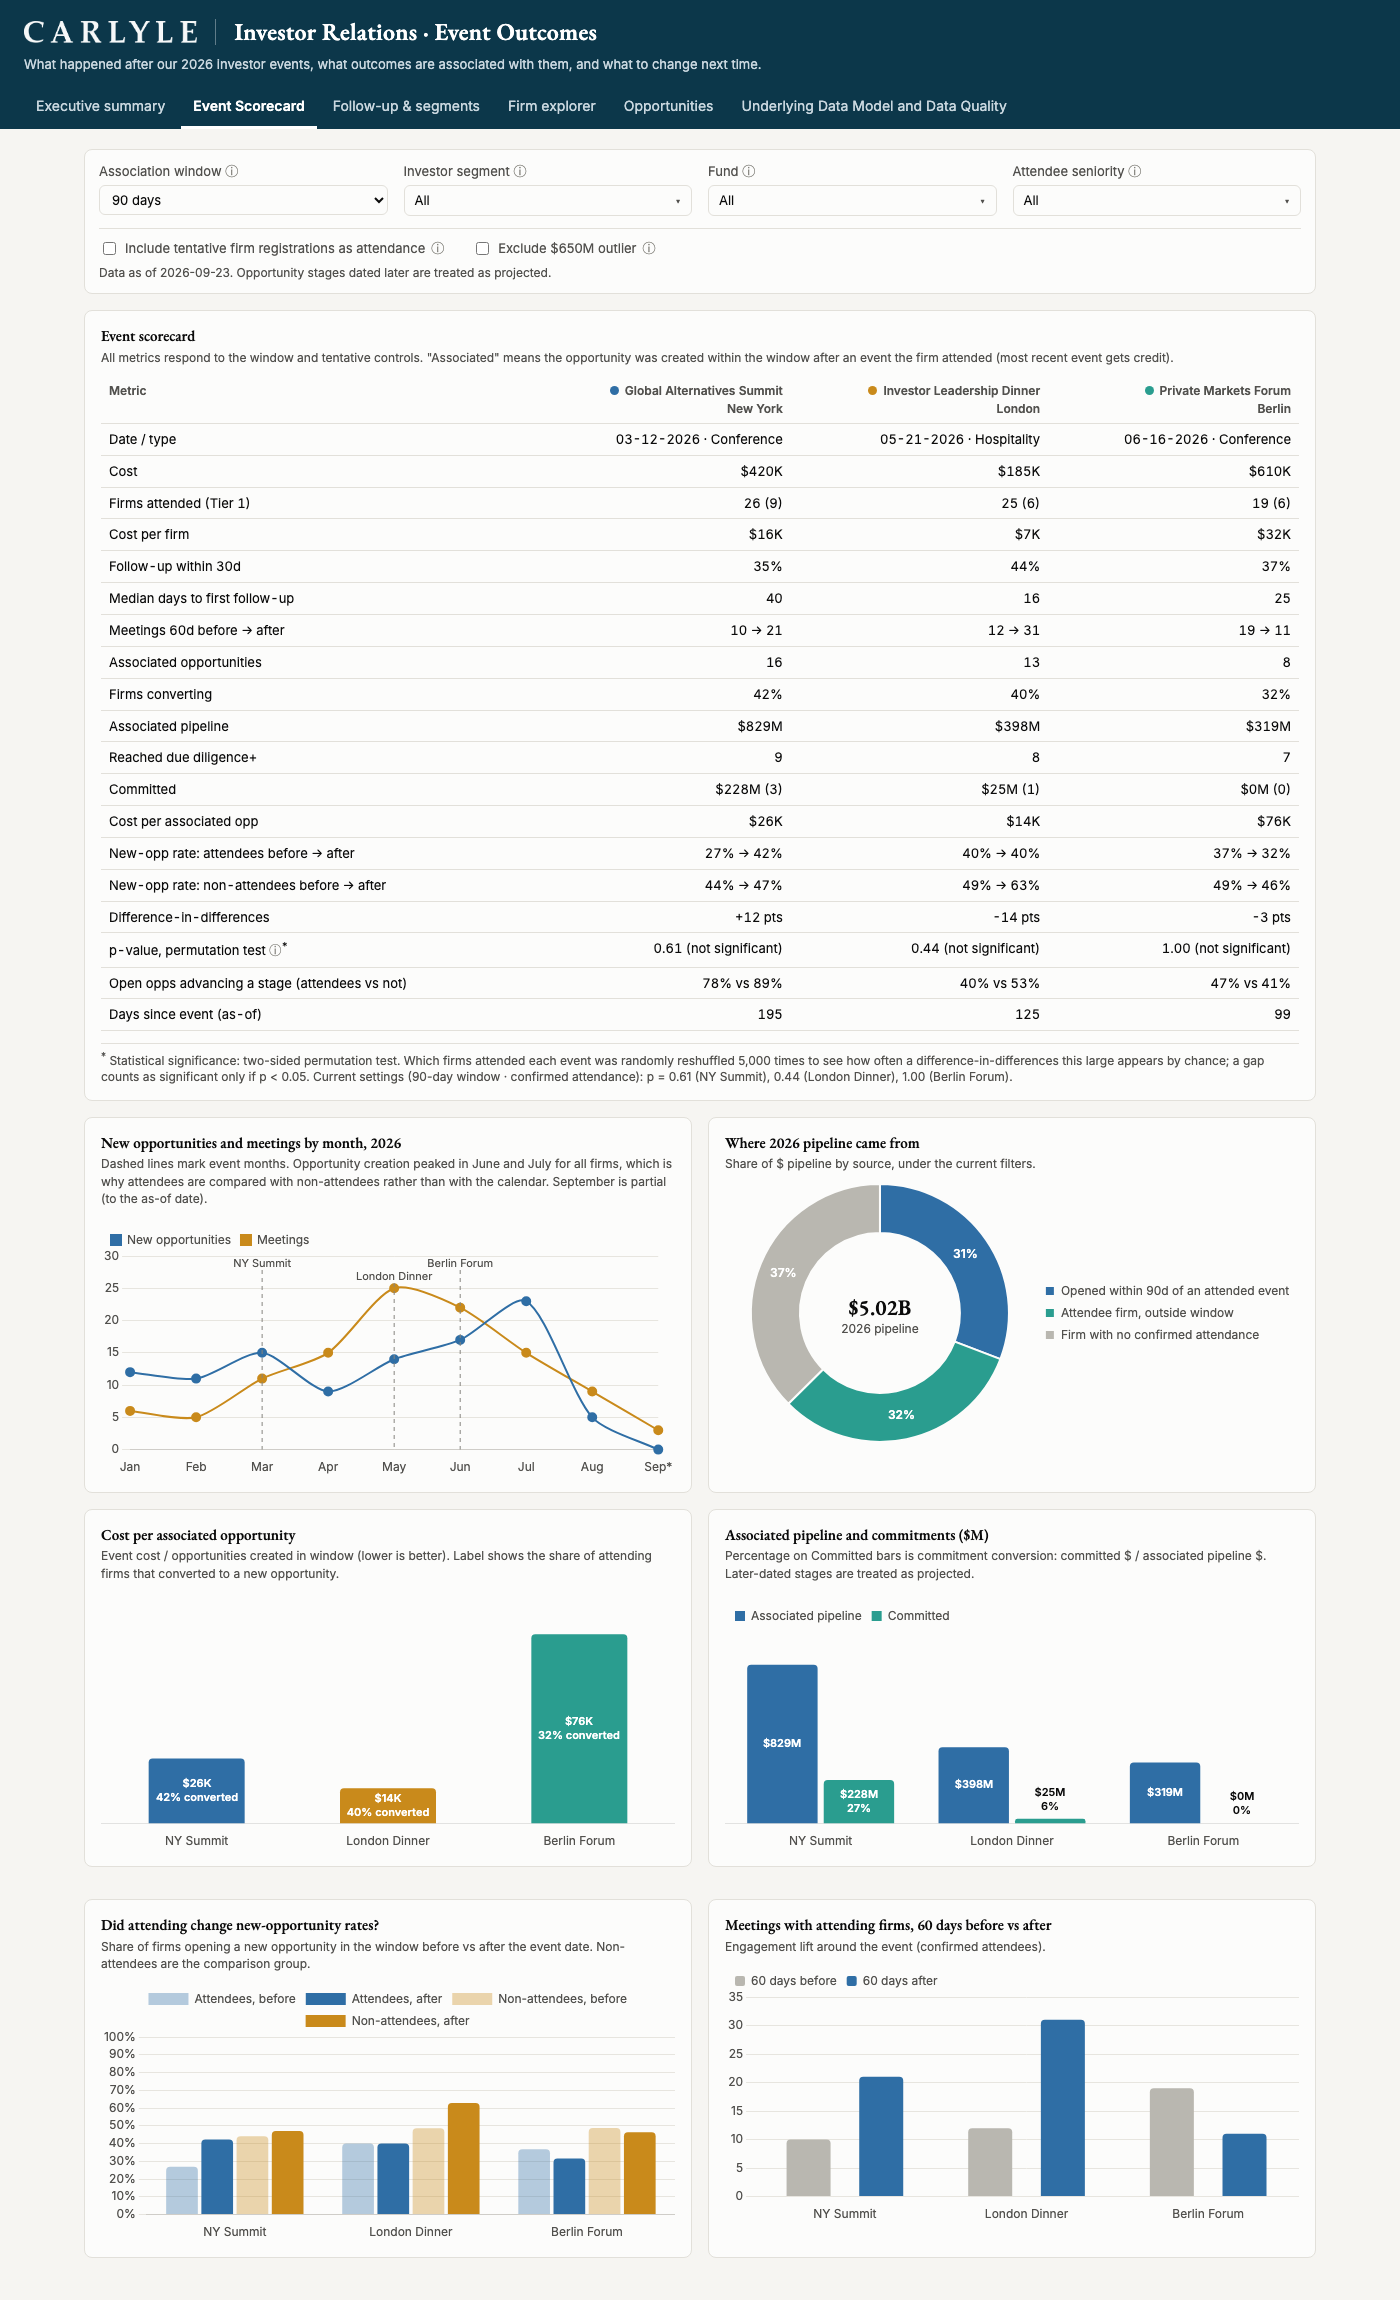
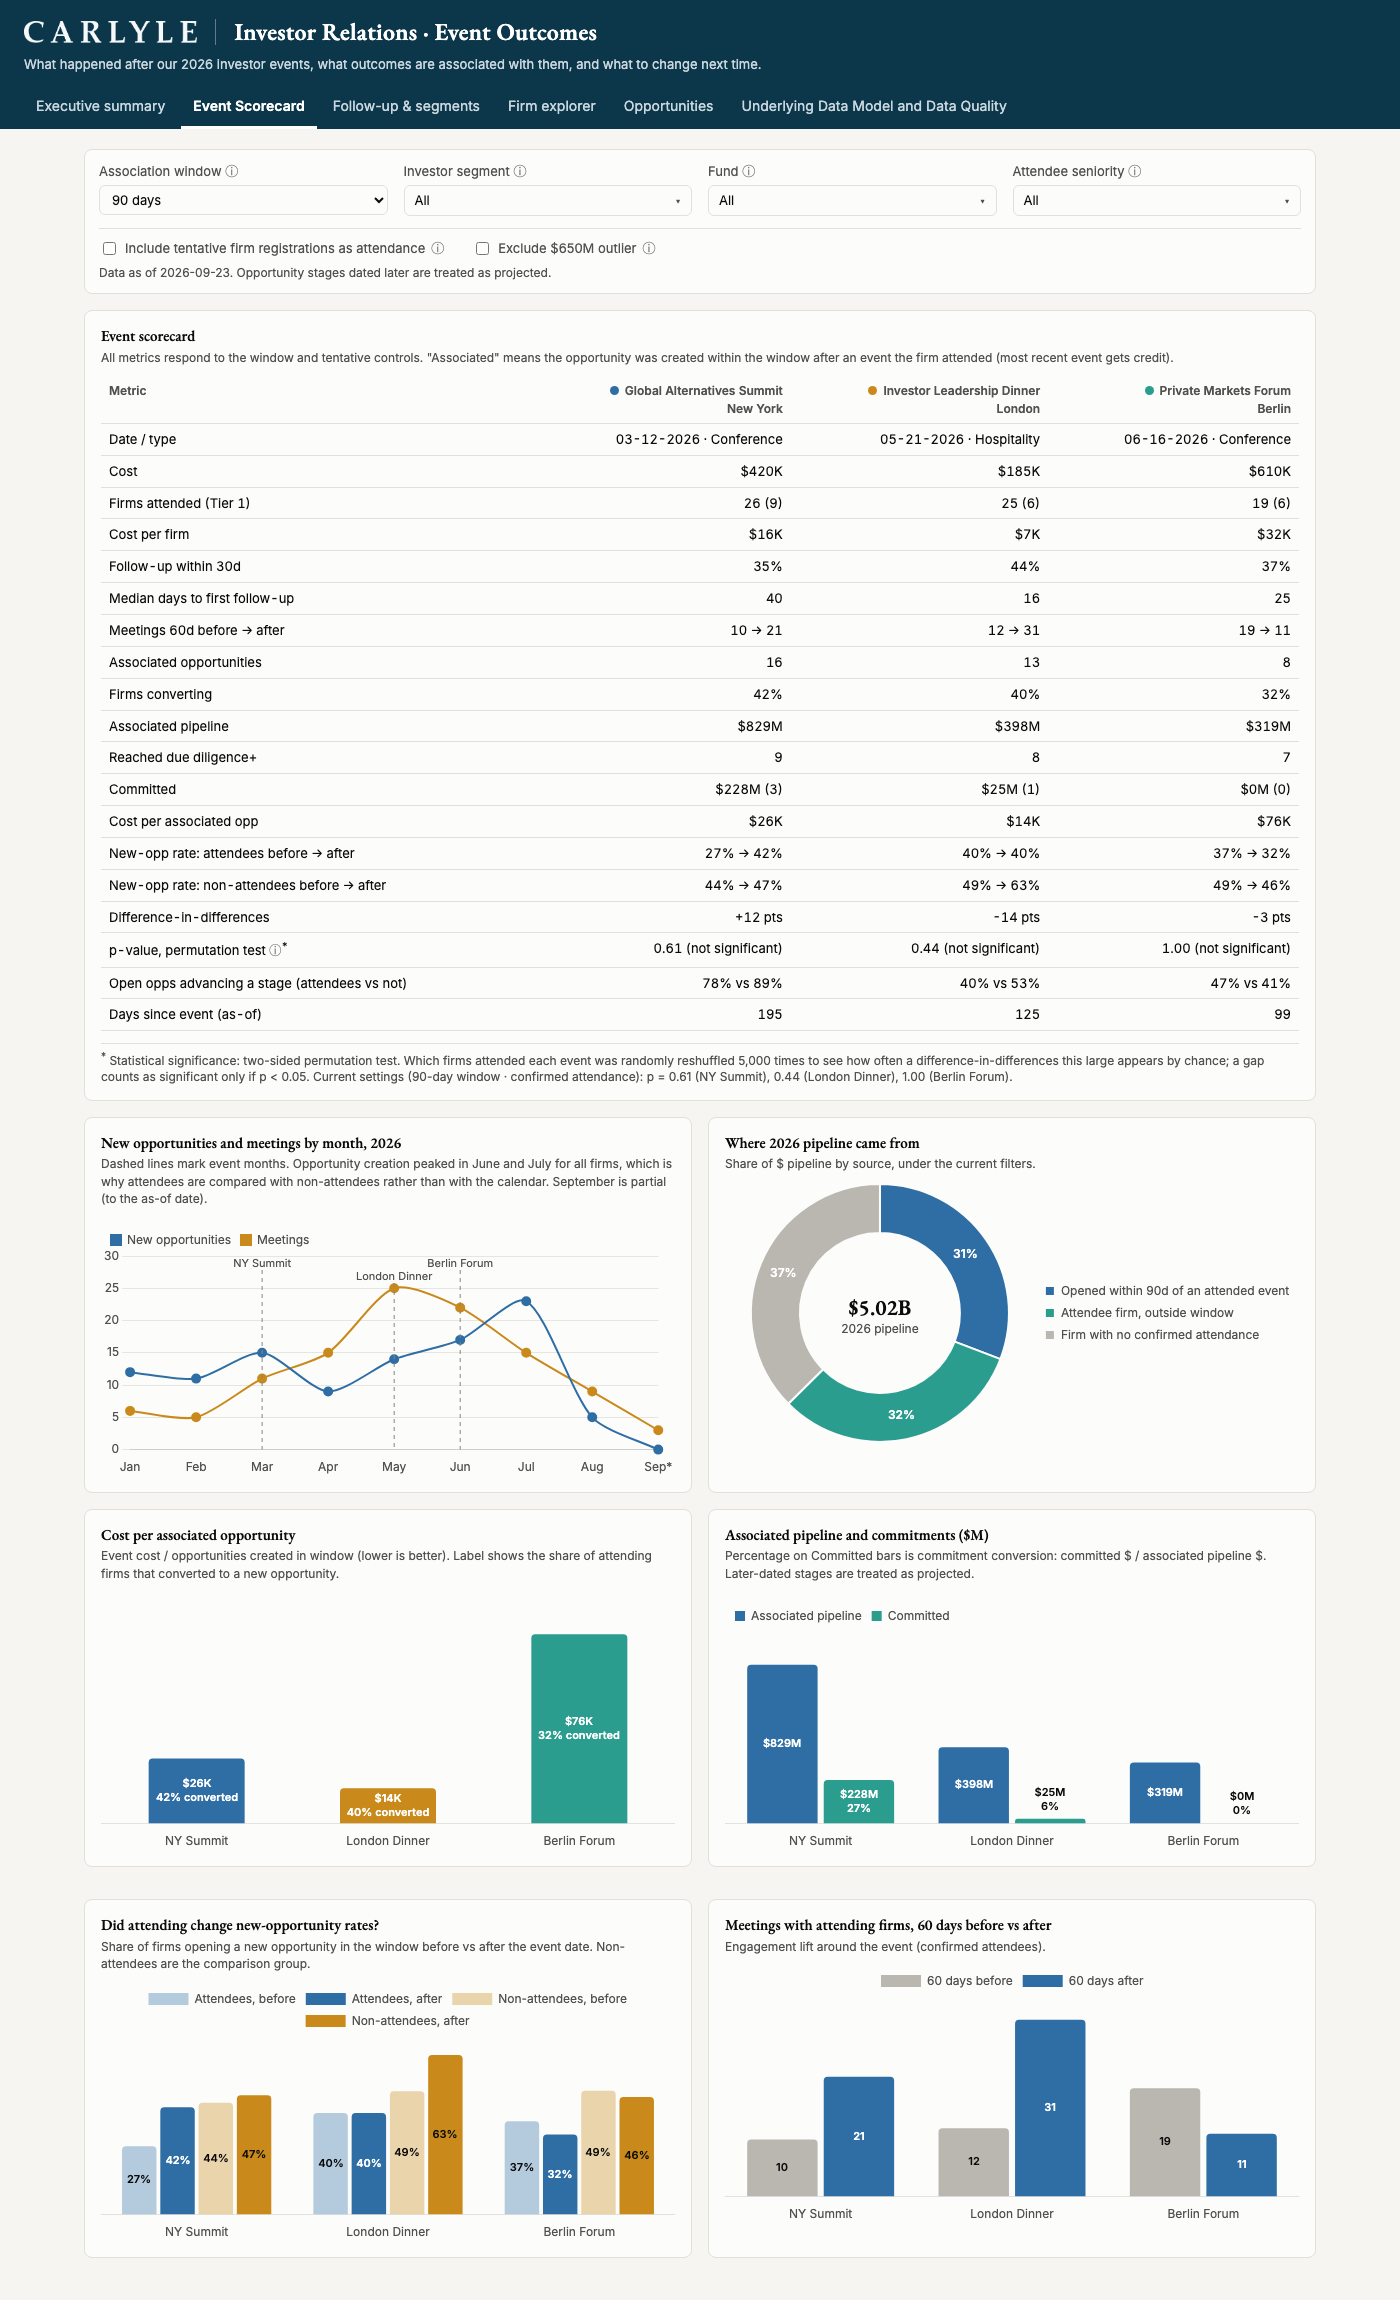
Centered data labels and hidden value axes on four more bar charts
New-opportunity rate, meetings before/after, pipeline source and stage funnel.
Dark label text on light bars.

diff --git a/docs/index.html b/docs/index.html
@@ -485,6 +485,33 @@ function donut(id, labels, values, colors, center, fmt) {
         datalabels: {color: '#fff', font: {weight: 600, size: 12}, formatter: v => v / total >= 0.06 ? Math.round(v / total * 100) + '%' : ''},
         centerText: center}}});
 }
+// Data labels centered inside bars where they fit, just outside where they don't.
+// White text on dark bars, dark text on light or translucent bars.
+function isLightColor(c) {
+  if (!c || c[0] !== '#') return false;
+  const h = c.slice(1), rgb = [0, 2, 4].map(i => parseInt(h.substr(i, 2), 16) / 255);
+  const alpha = h.length === 8 ? parseInt(h.substr(6, 2), 16) / 255 : 1;
+  const lum = 0.2126 * rgb[0] + 0.7152 * rgb[1] + 0.0722 * rgb[2];
+  return alpha < 0.6 || lum > 0.55;
+}
+function barLabels(fmt, lines = () => 1) {
+  const text = ctx => [].concat(fmt(ctx.dataset.data[ctx.dataIndex], ctx));
+  const fits = ctx => {
+    const v = ctx.dataset.data[ctx.dataIndex];
+    if (v == null || !v) return false;
+    const horiz = ctx.chart.options.indexAxis === 'y', sc = ctx.chart.scales[horiz ? 'x' : 'y'];
+    if (!sc) return false;
+    const len = (v / sc.max) * (horiz ? ctx.chart.chartArea.width : ctx.chart.chartArea.height);
+    const need = horiz ? Math.max(...text(ctx).map(t => String(t).length)) * 6.5 + 10 : lines(ctx) * 13 + 8;
+    return len >= need;
+  };
+  const bg = ctx => { const b = ctx.dataset.backgroundColor; return Array.isArray(b) ? b[ctx.dataIndex] : b; };
+  return {clamp: true, textAlign: 'center', formatter: (v, ctx) => text(ctx),
+    anchor: ctx => (fits(ctx) ? 'center' : 'end'), align: ctx => (fits(ctx) ? 'center' : 'end'), offset: ctx => (fits(ctx) ? 0 : 2),
+    color: ctx => (fits(ctx) && !isLightColor(bg(ctx)) ? '#ffffff' : css('--text')),
+    font: ctx => ({size: ctx.chart.width < 420 ? 9 : 11, weight: 600})};
+}
+const hiddenAxis = max => ({display: false, beginAtZero: true, suggestedMax: max});
 const bar = (label, data, color, extra = {}) => Object.assign({label, data, backgroundColor: color, borderRadius: 4, borderSkipped: 'bottom', maxBarThickness: 44, borderColor: css('--surface'), borderWidth: 0}, extra);
 
 // ---------- overview ----------
@@ -575,12 +602,13 @@ function renderOverview() {
         datalabels: lbl(c => (c.datasetIndex === 0 ? 1 : 2), {formatter: (v, c) => c.datasetIndex === 0 ? fmtM(v * 1e6)
           : [fmtM(v * 1e6), pct(K[c.dataIndex].assoc_pipeline_usd ? K[c.dataIndex].assoc_committed_usd / K[c.dataIndex].assoc_pipeline_usd : 0)]})},
       scales: {x: {grid: {display: false}}, y: {display: false, beginAtZero: true, suggestedMax: maxOf(pipeVals) * 1.1}}}});
-  chart('cLift', {type: 'bar', data: {labels, datasets: [
+  chart('cLift', {type: 'bar', plugins: [ChartDataLabels], data: {labels, datasets: [
       bar('Attendees, before', K.map(r => r.attendee_prior_opp_rate * 100), css('--s1') + '59'),
       bar('Attendees, after', K.map(r => r.attendee_new_opp_rate * 100), css('--s1')),
       bar('Non-attendees, before', K.map(r => r.non_attendee_prior_opp_rate * 100), css('--s2') + '59'),
       bar('Non-attendees, after', K.map(r => r.non_attendee_new_opp_rate * 100), css('--s2'))]},
-    options: {plugins: {tooltip: {callbacks: {label: c => `${c.dataset.label}: ${Math.round(c.raw)}%`}}}, scales: {x: {grid: {display: false}}, y: {grid: {color: css('--grid')}, border: {display: false}, max: 100, ticks: {callback: v => v + '%'}}}}});
+    options: {plugins: {tooltip: {callbacks: {label: c => `${c.dataset.label}: ${Math.round(c.raw)}%`}}, datalabels: barLabels(v => (v == null ? '' : Math.round(v) + '%'))},
+      scales: {x: {grid: {display: false}}, y: hiddenAxis(maxOf(K.flatMap(r => [r.attendee_prior_opp_rate, r.attendee_new_opp_rate, r.non_attendee_prior_opp_rate, r.non_attendee_new_opp_rate]).map(v => v * 100)) * 1.1)}}});
   const firmSet = new Set(C.firmsIn.map(r => r.firm_id));
   const M = D.mart_monthly.map(r => ({...r,
     new_opps: C.opps.filter(o => o.created_date.slice(0, 7) === r.month.slice(0, 7)).length,
@@ -596,9 +624,11 @@ function renderOverview() {
   const srcV = C.buckets.map(b => C.opps.filter(o => o.bucket === b).reduce((a, o) => a + o.amount_usd, 0));
   donut('cSourceDonut', [`Opened within ${C.f.window}d of an attended event`, 'Attendee firm, outside window', C.noneLabel === 'No confirmed attendance' ? 'Firm with no confirmed attendance' : C.noneLabel], srcV,
     [css('--s1'), css('--s3'), css('--neutral')], {text: fmtM(srcV.reduce((a, b) => a + b, 0)), sub: '2026 pipeline'}, fmtM);
-  chart('cMtg', {type: 'bar', data: {labels, datasets: [
-      bar('60 days before', K.map(r => r.meetings_pre_60), css('--neutral')),
-      bar('60 days after', K.map(r => r.meetings_post_60), css('--s1'))]}});
+  chart('cMtg', {type: 'bar', plugins: [ChartDataLabels], data: {labels, datasets: [
+      bar('60 days before', K.map(r => r.meetings_pre_60), css('--neutral'), wide),
+      bar('60 days after', K.map(r => r.meetings_post_60), css('--s1'), wide)]},
+    options: {plugins: {datalabels: barLabels(v => String(v))},
+      scales: {x: {grid: {display: false}}, y: hiddenAxis(maxOf(K.flatMap(r => [r.meetings_pre_60, r.meetings_post_60])) * 1.1)}}});
 }
 
 // ---------- follow-up ----------
@@ -678,10 +708,12 @@ function renderTimeline() {
 function renderOpps() {
   const C = ctx(), O = C.opps, buckets = C.buckets;
   const agg = b => O.filter(o => o.bucket === b);
-  chart('cSource', {type: 'bar', data: {labels: buckets, datasets: [
+  chart('cSource', {type: 'bar', plugins: [ChartDataLabels], data: {labels: buckets, datasets: [
       bar('Pipeline $M', buckets.map(b => agg(b).reduce((a, o) => a + o.amount_usd, 0) / 1e6), css('--s1'), {n: buckets.map(b => agg(b).length)}),
       bar('Committed $M', buckets.map(b => agg(b).filter(o => o.outcome === 'Committed').reduce((a, o) => a + o.amount_usd, 0) / 1e6), css('--s3'), {n: buckets.map(b => agg(b).filter(o => o.outcome === 'Committed').length)})]},
-    options: {plugins: {tooltip: {callbacks: {label: c => `${c.dataset.label.replace(' $M', '')}: $${Math.round(c.raw)}M (${c.dataset.n[c.dataIndex]} opps)`}}}, scales: {x: {grid: {display: false}}, y: {grid: {color: css('--grid')}, border: {display: false}, ticks: {callback: v => '$' + v + 'M'}}}}});
+    options: {plugins: {tooltip: {callbacks: {label: c => `${c.dataset.label.replace(' $M', '')}: $${Math.round(c.raw)}M (${c.dataset.n[c.dataIndex]} opps)`}},
+        datalabels: barLabels((v, c) => [fmtM(v * 1e6), `${c.dataset.n[c.dataIndex]} opps`], () => 2)},
+      scales: {x: {grid: {display: false}}, y: hiddenAxis(Math.max(1, ...buckets.map(b => agg(b).reduce((a, o) => a + o.amount_usd, 0) / 1e6)) * 1.1)}}});
   const outside = `Attendee, outside ${C.f.window}d`;
   const srcName = o => o.assoc_event_id ? evShort(o.assoc_event_id) : o.bucket === 'Attendee, outside window' ? outside : 'No confirmed attendance';
   const stgName = r => r <= 2 ? 'Intro / VDR' : r === 3 ? 'Due diligence' : 'IC / documentation';
@@ -721,10 +753,11 @@ function renderOpps() {
   const stages = ['Initial Conversation', 'Follow-up / VDR', 'Due Diligence', 'IC / Documentation', 'Committed'];
   const reach = (arr, i) => arr.filter(o => o.max_stage_rank >= i + 1 && (i < 4 || o.outcome === 'Committed')).length;
   const ea = O.filter(o => o.assoc_event_id), other = O.filter(o => !o.assoc_event_id);
-  chart('cFunnel', {type: 'bar', data: {labels: stages, datasets: [
+  chart('cFunnel', {type: 'bar', plugins: [ChartDataLabels], data: {labels: stages, datasets: [
       bar('Event-associated', stages.map((s, i) => reach(ea, i)), css('--s1')),
       bar('All other', stages.map((s, i) => reach(other, i)), css('--neutral'))]},
-    options: {indexAxis: 'y', scales: {y: {grid: {display: false}}, x: {grid: {color: css('--grid')}, border: {display: false}}}}});
+    options: {indexAxis: 'y', plugins: {datalabels: barLabels(v => String(v))},
+      scales: {y: {grid: {display: false}}, x: hiddenAxis(Math.max(1, reach(other, 0), reach(ea, 0)) * 1.08)}}});
 
   const fill = (sel, vals) => { if ($(sel).options.length === 1) { $(sel).insertAdjacentHTML('beforeend', vals.map(v => `<option>${esc(v)}</option>`).join('')); $(sel).onchange = renderOpps; } };
   const keep = $('#oSource').value;

diff --git a/app/streamlit_app.py b/app/streamlit_app.py
@@ -102,11 +102,23 @@ def sig_note(rows: pd.DataFrame, label: str) -> str:
             f"a gap counts as significant only if p < 0.05. {label}: p = {ps}.")
 
 
-def inside_labels(values, axis_max, min_share):
-    """White labels inside the bar; bars shorter than min_share of the axis get dark labels just above."""
-    inside = [(v is not None and not pd.isna(v) and v / axis_max >= min_share) for v in values]
+def inside_labels(values, axis_max, min_share, light_bar=False):
+    """Labels centered inside the bar; bars shorter than min_share of the axis get their label just outside.
+    White text on dark bars, dark text on light bars (light_bar=True)."""
+    inside = [(v is not None and not pd.isna(v) and axis_max and v / axis_max >= min_share) for v in values]
     return dict(textposition=["inside" if i else "outside" for i in inside], insidetextanchor="middle", textangle=0,
-                textfont=dict(color=["#ffffff" if i else "#1b1f24" for i in inside], size=10))
+                textfont=dict(color=["#ffffff" if i and not light_bar else "#1b1f24" for i in inside], size=10))
+
+
+def label_bars(fig, labels_per_trace, light=(), min_share=0.12, horizontal=False, headroom=1.12):
+    """Add centered data labels to every trace of a bar_fig and hide the value axis."""
+    vals = [list(t.x if horizontal else t.y) for t in fig.data]
+    vmax = max([v for vs in vals for v in vs if v is not None and not pd.isna(v)] + [1])
+    for i, (t, txt) in enumerate(zip(fig.data, labels_per_trace)):
+        t.update(text=txt, cliponaxis=False, **inside_labels(vals[i], vmax, min_share, light_bar=i in light))
+    (fig.update_xaxes if horizontal else fig.update_yaxes)(visible=False, range=[0, vmax * headroom])
+    fig.update_layout(uniformtext_minsize=9, uniformtext_mode="show")
+    return fig
 
 
 def chart_head(col, title: str, sub: str = "") -> None:
@@ -333,11 +345,13 @@ with tab_s:
     b.plotly_chart(fig, width="stretch")
     a, b = st.columns(2)
     chart_head(a, "New-opportunity rate before vs after the event")
-    a.plotly_chart(bar_fig(labels, [
-        ("Attendees, before", K.attendee_prior_opp_rate, NEUTRAL), ("Attendees, after", K.attendee_new_opp_rate, BLUE),
-        ("Non-attendees, before", K.non_attendee_prior_opp_rate, "#dcdad4"), ("Non-attendees, after", K.non_attendee_new_opp_rate, ORANGE)], yfmt=".0%"), width="stretch")
+    lift = [K.attendee_prior_opp_rate, K.attendee_new_opp_rate, K.non_attendee_prior_opp_rate, K.non_attendee_new_opp_rate]
+    fig = bar_fig(labels, [("Attendees, before", lift[0], NEUTRAL), ("Attendees, after", lift[1], BLUE),
+                           ("Non-attendees, before", lift[2], "#dcdad4"), ("Non-attendees, after", lift[3], ORANGE)])
+    a.plotly_chart(label_bars(fig, [[pct(v) for v in s] for s in lift], light=(0, 2), min_share=0.15), width="stretch")
     chart_head(b, "Meetings with attending firms, 60 days before vs after")
-    b.plotly_chart(bar_fig(labels, [("Before", K.meetings_pre_60, NEUTRAL), ("After", K.meetings_post_60, BLUE)]), width="stretch")
+    fig = bar_fig(labels, [("Before", K.meetings_pre_60, NEUTRAL), ("After", K.meetings_post_60, BLUE)])
+    b.plotly_chart(label_bars(fig, [[str(int(v)) for v in K.meetings_pre_60], [str(int(v)) for v in K.meetings_post_60]], light=(0,)), width="stretch")
 
 with tab_f:
     conf = ATT.copy()
@@ -403,12 +417,16 @@ with tab_p:
     src = FOPPS.groupby("bucket").agg(pipeline=("amount_usd", "sum"), n=("opportunity_id", "count")).reindex(BUCKETS).fillna(0)
     src["committed"] = FOPPS[FOPPS.outcome == "Committed"].groupby("bucket").amount_usd.sum()
     chart_head(a, "Where pipeline came from ($M)")
-    a.plotly_chart(bar_fig(list(src.index), [("Pipeline", src.pipeline / 1e6, BLUE), ("Committed", src.committed.fillna(0) / 1e6, AQUA)]), width="stretch")
+    ncom = FOPPS[FOPPS.outcome == "Committed"].groupby("bucket").size().reindex(src.index).fillna(0).astype(int)
+    fig = bar_fig(list(src.index), [("Pipeline", src.pipeline / 1e6, BLUE), ("Committed", src.committed.fillna(0) / 1e6, AQUA)])
+    a.plotly_chart(label_bars(fig, [[f"{fm(v)}<br>{int(n)} opps" for v, n in zip(src.pipeline, src.n)],
+                                    [f"{fm(v)}<br>{int(n)} opps" for v, n in zip(src.committed.fillna(0), ncom)]], min_share=0.18), width="stretch")
     stages = ["Initial Conversation", "Follow-up / VDR", "Due Diligence", "IC / Documentation", "Committed"]
     ea, other = FOPPS[FOPPS.assoc_event_id.notna()], FOPPS[FOPPS.assoc_event_id.isna()]
     chart_head(b, "Funnel: count reaching each stage")
-    b.plotly_chart(bar_fig(stages, [("Event-associated", [(ea.max_stage_rank >= i + 1).sum() for i in range(5)], BLUE),
-                                    ("All other", [(other.max_stage_rank >= i + 1).sum() for i in range(5)], NEUTRAL)], horizontal=True), width="stretch")
+    fun = [[int((ea.max_stage_rank >= i + 1).sum()) for i in range(5)], [int((other.max_stage_rank >= i + 1).sum()) for i in range(5)]]
+    fig = bar_fig(stages, [("Event-associated", fun[0], BLUE), ("All other", fun[1], NEUTRAL)], horizontal=True)
+    b.plotly_chart(label_bars(fig, [[str(v) for v in f] for f in fun], light=(1,), min_share=0.08, horizontal=True), width="stretch")
     chart_head(st, "Opportunity flow: source → furthest stage → status",
                "Opportunities under the current filters. Band width is the number of opportunities; "
                "hover for $ pipeline. Committed opportunities flow straight to Committed.")
